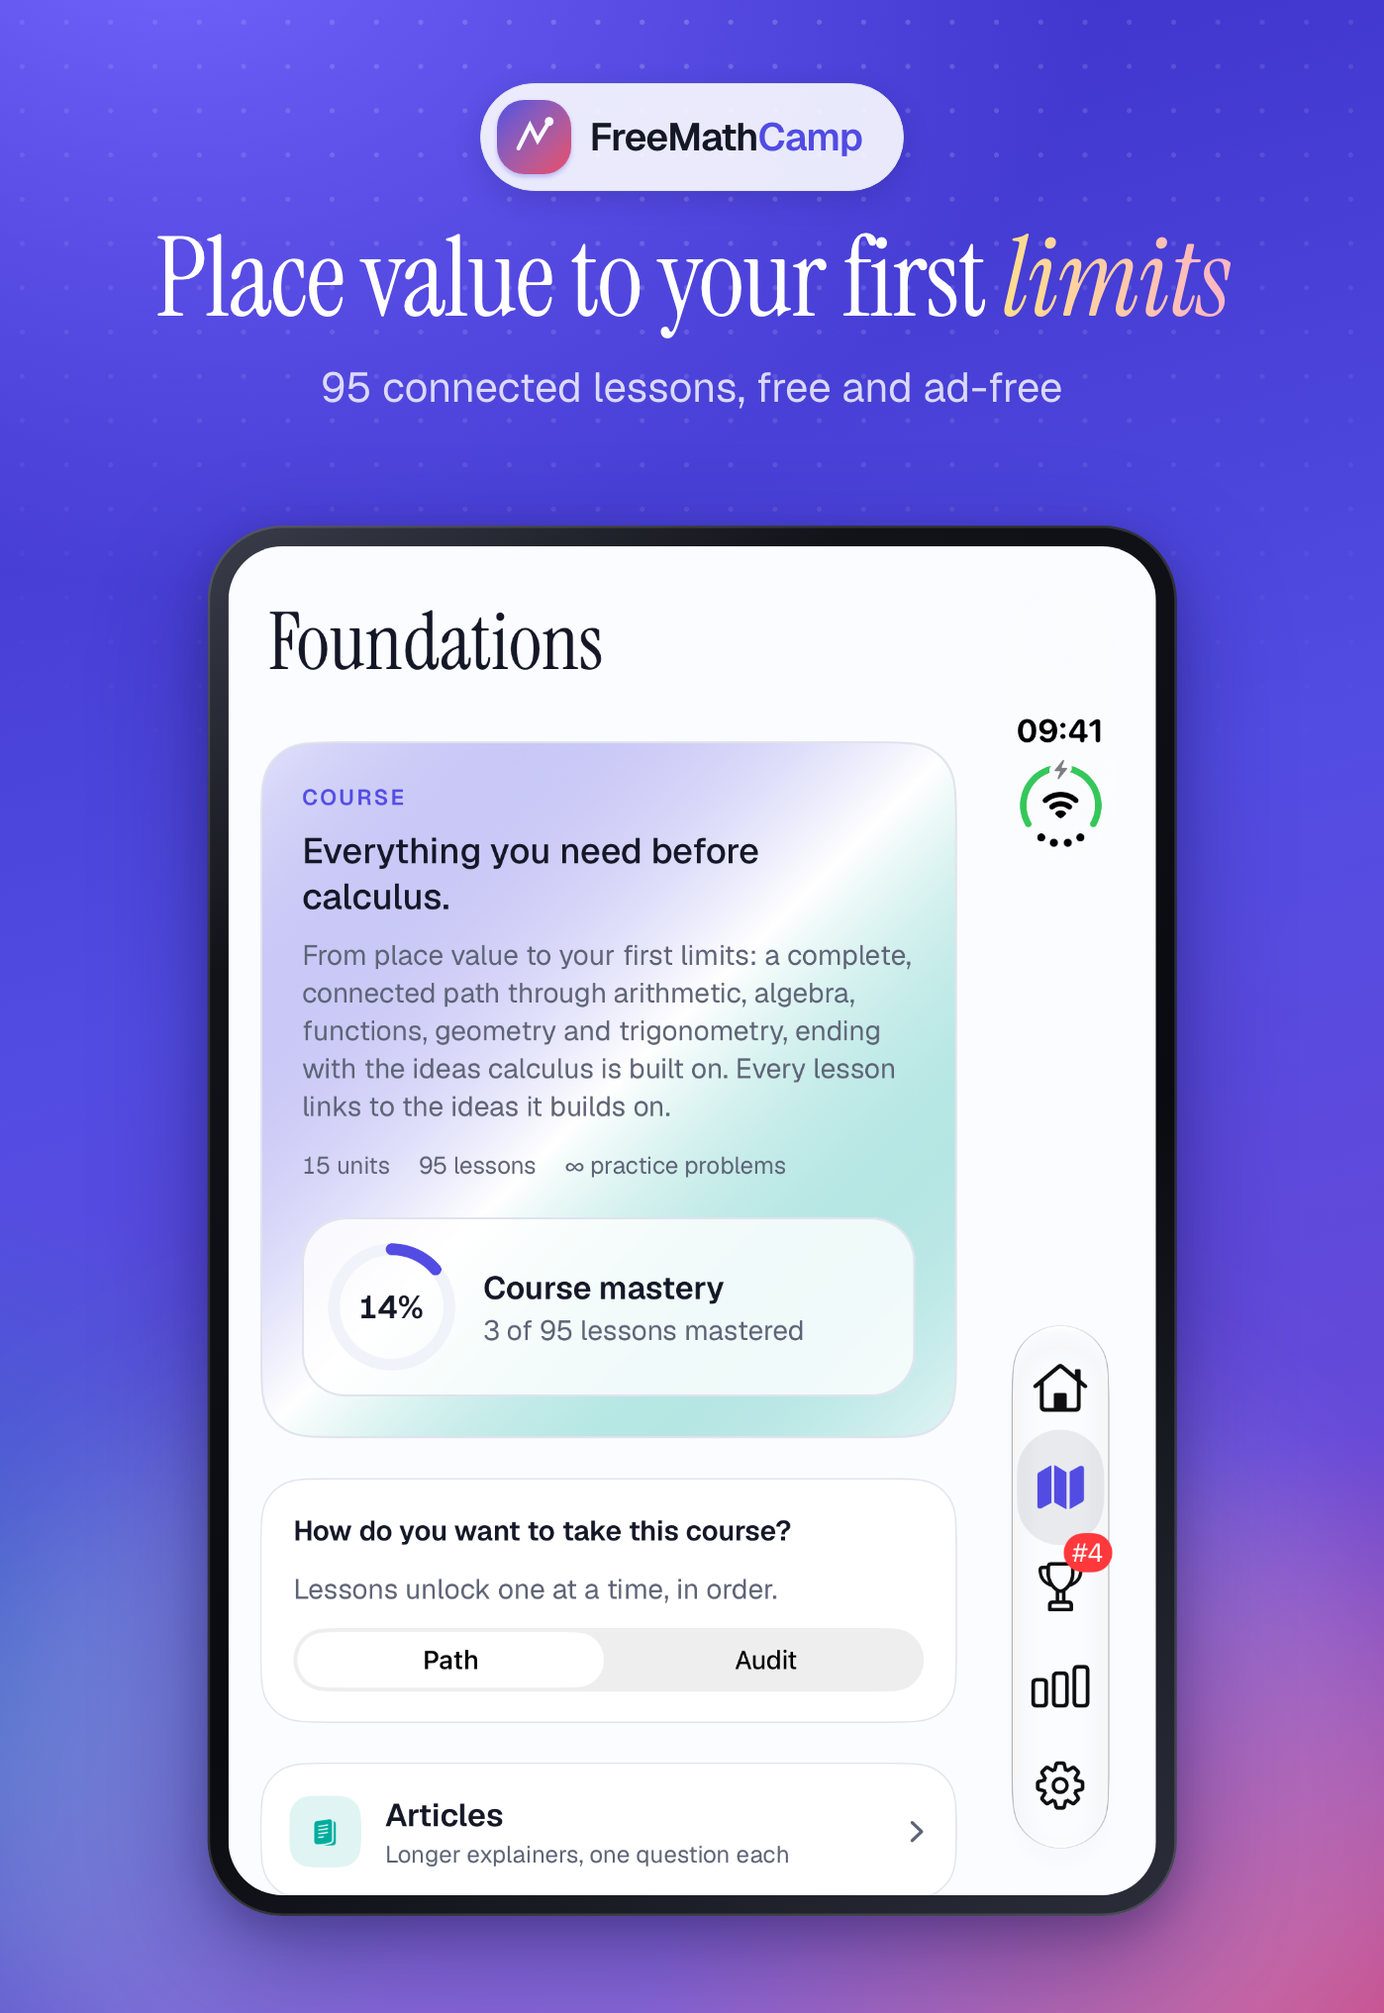
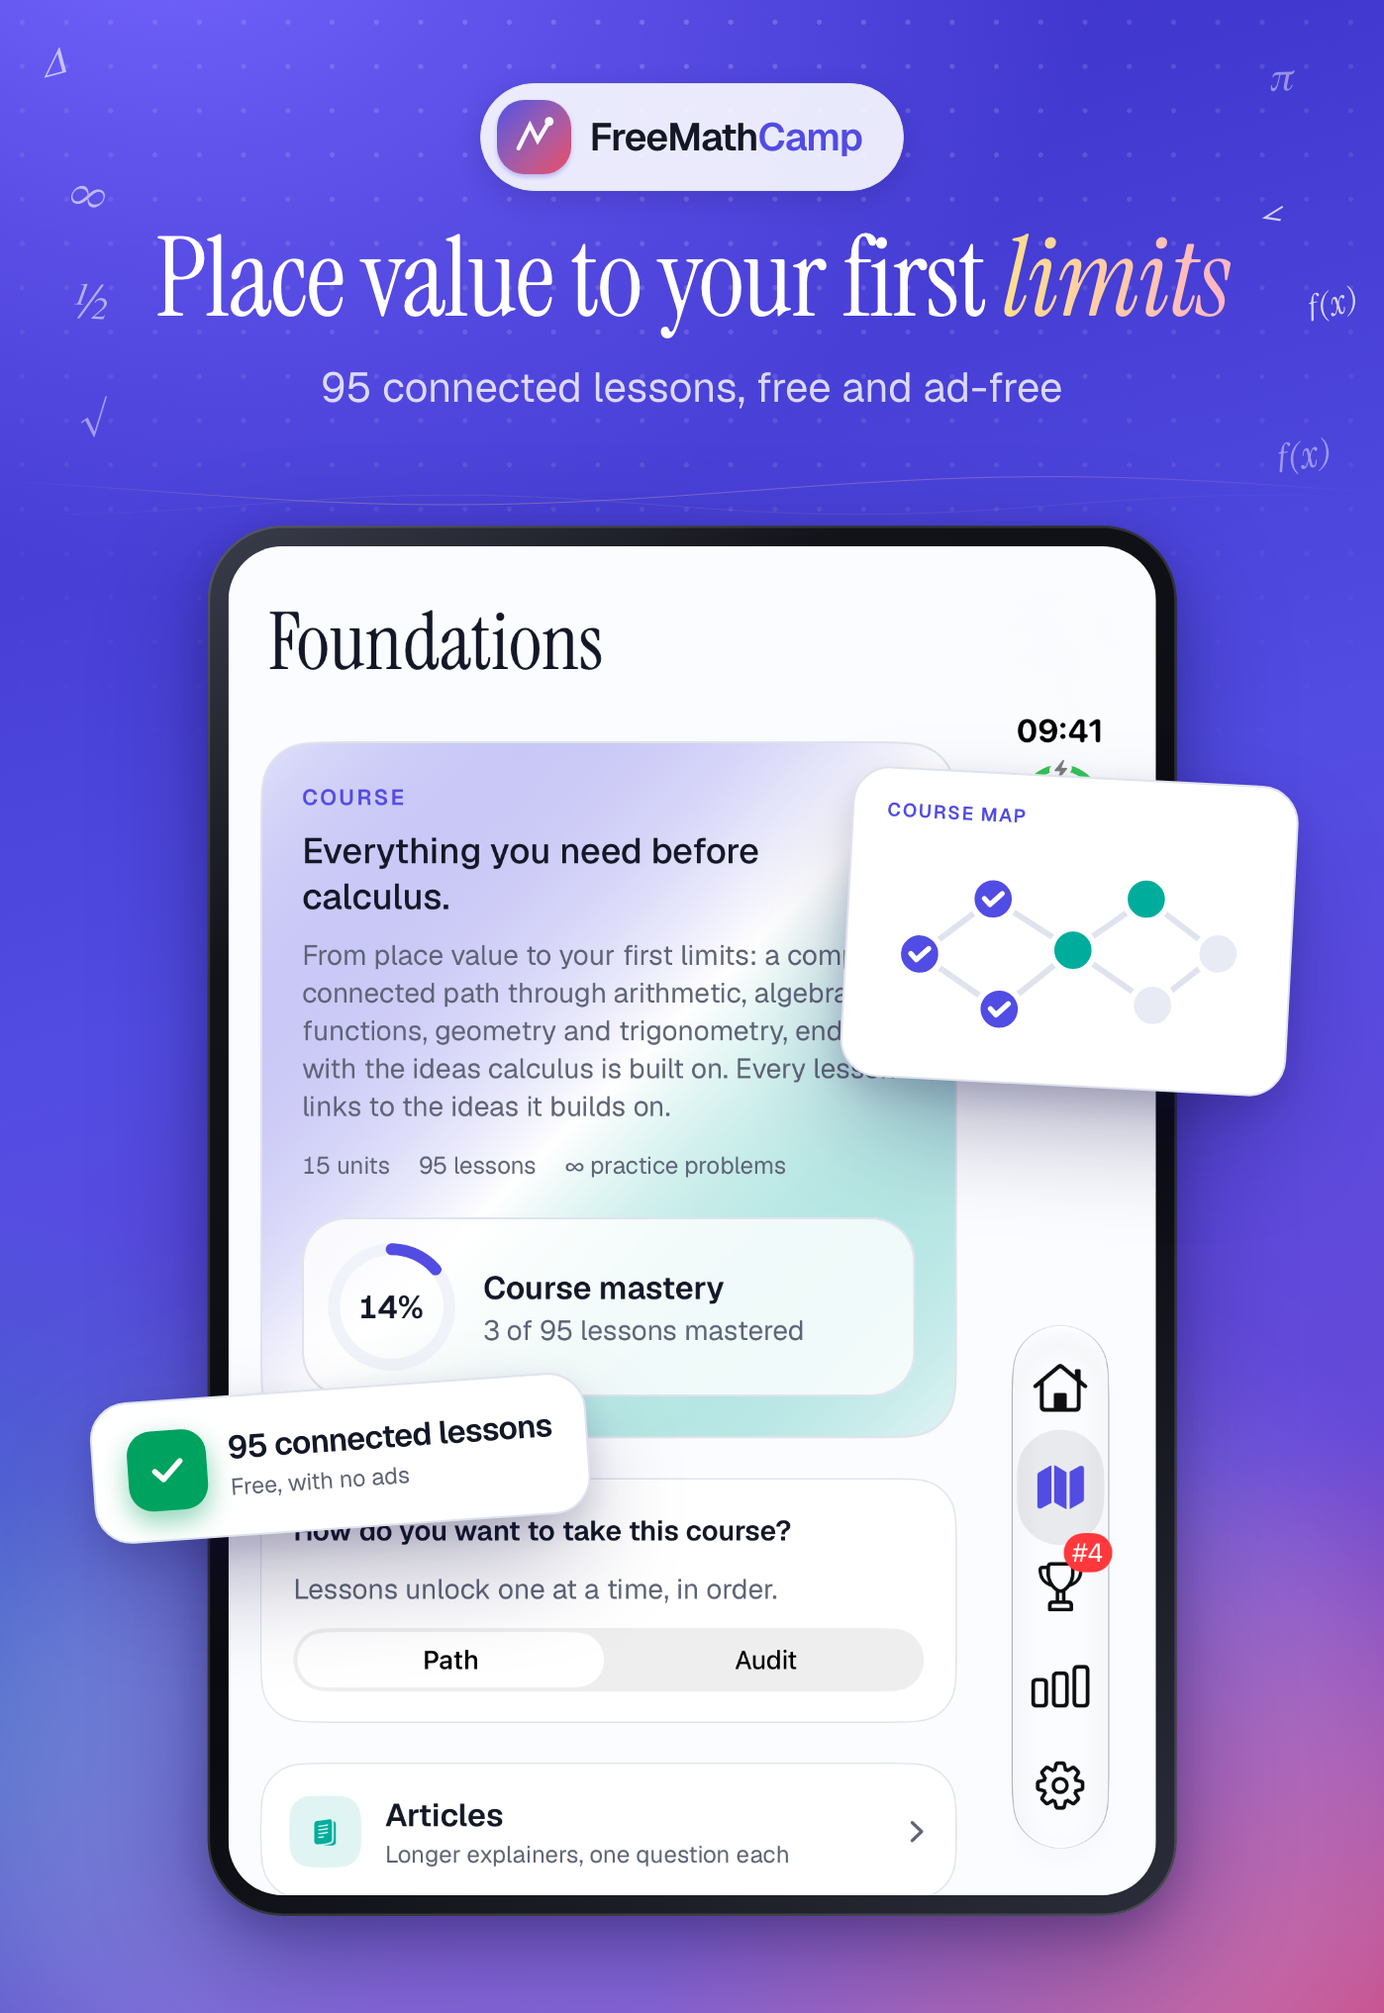
Show each visual's working once; generated art on App Store screenshots
Some visuals print their own working under the drawing (the area model's
partial products, the percent grid's fraction, the exponent blocks'
repeated product), and their captions repeated it. Those captions now keep
only what the visual doesn't already say, and a new captions test fails if
a caption repeats its visual's working again.

The App Store screenshots get generated artwork (store/compose/art.mjs): a
seeded backdrop of maths glyphs and curves behind each headline, and two
floating cards per shot drawn from the app's own visuals (area model,
mastery ring, function plot, fraction circle, course map), in the app's
light and dark tokens. All 18 shots are regenerated.

diff --git a/apps/mobile/store/compose/template.html b/apps/mobile/store/compose/template.html
@@ -92,13 +92,60 @@
   .aurora .halo { background: rgba(82, 76, 227, 0.16); }
   .night .halo { background: rgba(146, 150, 255, 0.14); }
 
-  .phone { --h1max: 80vw; --top: 6.5vw; --chip: 3.4vw; --h1: 11vw; --sub: 3.7vw; --gap: 2.4vw; }
+
+  /* ---- Generated art (art.mjs) ---- */
+  /* The header's backdrop: glyphs around the headline, curves above the device. */
+  .art-head { position: absolute; left: 0; right: 0; top: 0; height: var(--hh); pointer-events: none; }
+  .backdrop { position: absolute; inset: 0; width: 100%; height: 100%; overflow: visible; }
+  .glyph { position: absolute; font-family: "Instrument Serif", serif; font-style: italic; line-height: 1; white-space: nowrap; }
+  .indigo .art-head { --a1: #ffe08a; --a2: #ffb4c6; } .indigo .glyph { color: #fff; }
+  .aurora .art-head { --a1: #524ce3; --a2: #ec4764; } .aurora .glyph { color: #524ce3; }
+  .night .art-head { --a1: #9296ff; --a2: #f9667a; } .night .glyph { color: #b9bcff; }
+  .indigo .glyph { opacity: 0.5; } .backdrop .c1 { opacity: 0.9; } .backdrop .c2 { opacity: 0.5; }
+
+  /* Cards hanging off the device's edges, in the app's light (or, at night, dark) tokens. */
+  .card { position: absolute; z-index: 2; font-size: var(--u); padding: 1.3em 1.5em; border-radius: 1.7em; min-width: 13em;
+    --card: oklch(1 0 0); --fg: oklch(0.21 0.03 272); --mfg: oklch(0.5 0.03 272); --muted: oklch(0.94 0.012 272); --border: oklch(0.915 0.014 272);
+    --primary: oklch(0.52 0.22 277); --chart-1: oklch(0.55 0.22 277); --chart-2: oklch(0.66 0.14 185); --chart-3: oklch(0.76 0.16 70); --chart-4: oklch(0.64 0.2 15); --success: oklch(0.62 0.16 158); --warning: oklch(0.74 0.16 68);
+    background: var(--card); color: var(--fg); border: 0.1em solid var(--border);
+    box-shadow: 0 2.4em 5em -1em rgba(18, 14, 70, 0.38), 0 0.6em 1.4em rgba(18, 14, 70, 0.14);
+    transform: rotate(var(--rot)); }
+  .night .card { --card: oklch(0.205 0.026 276); --fg: oklch(0.96 0.01 272); --mfg: oklch(0.7 0.03 272); --muted: oklch(0.28 0.025 276); --border: oklch(1 0 0 / 12%);
+    --primary: oklch(0.72 0.16 280); --chart-1: oklch(0.72 0.16 280); --chart-2: oklch(0.74 0.13 185); --chart-3: oklch(0.8 0.14 72); --chart-4: oklch(0.7 0.18 15); --success: oklch(0.72 0.15 158); --warning: oklch(0.8 0.14 72);
+    box-shadow: 0 2.4em 5em -1em rgba(0, 0, 0, 0.6), 0 0 4em rgba(146, 150, 255, 0.18); }
+  .card.left { left: var(--hang); } .card.right { right: var(--hang); }
+  .card svg { display: block; }
+  .card .row { display: flex; align-items: center; gap: 1em; }
+  .card .t { font-weight: 600; font-size: 1.45em; letter-spacing: -0.02em; line-height: 1.15; }
+  .card .t.big { font-size: 2.6em; letter-spacing: -0.03em; line-height: 1; }
+  .card .s { margin-top: 0.25em; font-size: 1.05em; color: var(--mfg); }
+  .card .eyebrow { font-size: 0.85em; font-weight: 600; letter-spacing: 0.08em; text-transform: uppercase; color: var(--primary); margin-bottom: 0.7em; }
+  .card .tex { font-family: "Instrument Serif", serif; font-size: 1.75em; line-height: 1.1; white-space: nowrap; }
+  .card .foot { margin-top: 0.4em; text-align: center; color: var(--mfg); }
+  .card .foot .tex { font-size: 1.5em; }
+  .card text { font-family: "Geist", sans-serif; fill: var(--fg); }
+  .card text.n { font-size: 15px; font-weight: 500; } .card text.lbl { font-size: 13px; font-weight: 600; fill: var(--mfg); } .card text.pct { font-size: 15px; font-weight: 600; }
+  .w-area { width: 17em; } .w-ring { width: 5.6em; } .w-plot { width: 15em; } .w-pie { width: 6.2em; } .w-bars { width: 14em; } .w-graph { width: 17em; }
+  .card .g { stroke: var(--border); stroke-width: 1; } .card .ax { stroke: var(--mfg); stroke-opacity: 0.55; stroke-width: 1.4; } .card .edge { stroke: var(--border); stroke-width: 3; }
+  .card .frac .tex { display: inline-flex; flex-direction: column; align-items: center; font-size: 2.6em; line-height: 0.95; }
+  .card .frac .num { border-bottom: 0.05em solid currentColor; padding: 0 0.12em; }
+  .card .badge { display: grid; place-items: center; width: 3.6em; height: 3.6em; border-radius: 1.1em; flex: none; color: #fff; }
+  .card .badge svg { width: 55%; height: 55%; }
+  .card .badge.ok { background: var(--success); box-shadow: 0 0.5em 1.2em color-mix(in oklch, var(--success) 45%, transparent); }
+  .card .badge.star { background: linear-gradient(160deg, var(--primary), var(--chart-4)); box-shadow: 0 0.5em 1.2em color-mix(in oklch, var(--primary) 40%, transparent); }
+  .card .rank { display: flex; align-items: center; gap: 0.8em; padding: 0.5em 0.7em; border-radius: 0.9em; font-size: 1.15em; }
+  .card .rank + .rank { margin-top: 0.2em; }
+  .card .rank.me { background: color-mix(in oklch, var(--primary) 12%, transparent); color: var(--primary); font-weight: 600; }
+  .card .rank .p { width: 1.2em; font-weight: 600; color: var(--mfg); } .card .rank.me .p { color: var(--primary); }
+  .card .rank .nm { flex: 1; } .card .rank .xp { font-variant-numeric: tabular-nums; color: var(--mfg); } .card .rank.me .xp { color: var(--primary); }
+
+  .phone { --hh: 54.5vw; --gs: 1vw; --u: 2vw; --hang: -13%; --h1max: 80vw; --top: 6.5vw; --chip: 3.4vw; --h1: 11vw; --sub: 3.7vw; --gap: 2.4vw; }
   .phone .device { width: 72.5vw; top: 54.5vw; --bezel: 1.7vw; --r: 10.6vw; }
 
-  .tablet { --top: 4.6vw; --chip: 2vw; --h1: 6.4vw; --sub: 2.3vw; --gap: 1.6vw; }
+  .tablet { --hh: 28.5vw; --gs: 0.55vw; --u: 1.15vw; --hang: -9%; --top: 4.6vw; --chip: 2vw; --h1: 6.4vw; --sub: 2.3vw; --gap: 1.6vw; }
   .tablet .device { width: 77vw; top: 28.5vw; --bezel: 1.5vw; --r: 3.6vw; }
 
-  .duo { --top: 6vw; --chip: 2.8vw; --h1: 8vw; --sub: 3vw; --gap: 2.2vw; }
+  .duo { --hh: 38vw; --gs: 0.75vw; --u: 1.6vw; --hang: -12%; --top: 6vw; --chip: 2.8vw; --h1: 8vw; --sub: 3vw; --gap: 2.2vw; }
   .duo .device { width: 70vw; top: 38vw; --bezel: 1.5vw; --r: 5.4vw; }
 
   .tablet .island, .duo .island { display: none; }
@@ -108,6 +155,7 @@
   <div class="bg"></div>
   <div class="dots"></div>
   <div class="halo"></div>
+  <div class="art-head">{{BACKDROP}}</div>
   <header>
     <span class="chip"><span class="mark"><svg viewBox="0 0 24 24" fill="none" stroke="currentColor" stroke-width="2.2" stroke-linecap="round"><path d="M4 18 L10 6 L14 14 L20 4" /><circle cx="20" cy="4" r="2.3" fill="currentColor" stroke="none" /></svg></span><span>FreeMath<span class="camp">Camp</span></span></span>
     <h1>{{TITLE}}</h1>
@@ -116,6 +164,7 @@
   <div class="device">
     <img class="screen" src="{{SCREEN}}" alt="" />
     <div class="island"></div>
+    {{CARDS}}
   </div>
 </body>
 </html>

diff --git a/packages/curriculum/test/captions.test.ts b/packages/curriculum/test/captions.test.ts
@@ -1,0 +1,45 @@
+import { describe, expect, it } from "vitest";
+import { courses, type Block, type Visual } from "../src";
+import { articles } from "../src/articles";
+
+const placeParts = (n: number) =>
+  String(n)
+    .split("")
+    .map((d, i, s) => Number(d) * 10 ** (s.length - 1 - i))
+    .filter(Boolean);
+
+/**
+ * Some visuals print their own working under the drawing (the area model's
+ * partial products, the percent grid's fraction, the blocks' repeated product).
+ * Returns a check that is true when a caption repeats that working.
+ */
+const repeatsWorking = (v: Visual): ((caption: string) => boolean) | undefined => {
+  const nums = (c: string) => new Set(c.match(/\d+(\.\d+)?/g) ?? []);
+  switch (v.type) {
+    case "areaModel": {
+      const products = placeParts(v.a).flatMap((x) => placeParts(v.b).map((y) => String(x * y)));
+      return products.length > 1 ? (c) => products.every((p) => nums(c).has(p)) : (c) => nums(c).has(String(v.a * v.b));
+    }
+    case "percentGrid":
+      return (c) => c.replace(/\s/g, "").includes(`frac{${v.percent}}{100}`);
+    case "exponentBlocks":
+      return (c) => nums(c).has(String(v.base ** v.exponent));
+    case "rightTriangle":
+      return v.showSquares ? (c) => /\^2\s*\+/.test(c) : undefined;
+    default:
+      return undefined;
+  }
+};
+
+const visualBlocks = [
+  ...courses.flatMap((c) => c.units.flatMap((u) => u.exercises.flatMap((e) => e.lesson.map((b) => [`${e.id} lesson`, b] as const)))),
+  ...articles.flatMap((a) => a.body.map((b) => [`article ${a.slug}`, b] as const)),
+].filter((x): x is readonly [string, Extract<Block, { kind: "visual" }>] => x[1].kind === "visual");
+
+describe("visual captions don't repeat the working the visual already shows", () => {
+  for (const [where, block] of visualBlocks) {
+    const repeats = repeatsWorking(block.visual);
+    if (!repeats || !block.caption) continue;
+    it(`${where}: ${block.visual.type}`, () => expect(repeats(block.caption!), block.caption).toBe(false));
+  }
+});

diff --git a/packages/curriculum/src/articles/content/fractions.ts b/packages/curriculum/src/articles/content/fractions.ts
@@ -256,7 +256,7 @@ export const fractions = [
     related: ["percentage-change", "decimals", "what-is-a-fraction"],
     body: [
       text("**Percent** comes from the Latin *per centum*, \"for each hundred\". A percentage is simply a fraction with denominator $100$, written with a $\\%$ sign instead."),
-      visual({ type: "percentGrid", percent: 35 }, "35 out of 100 squares: $35\\% = \\frac{35}{100} = 0.35 = \\frac{7}{20}$."),
+      visual({ type: "percentGrid", percent: 35 }, "35 out of 100 squares, which is also $0.35$, or $\\frac{7}{20}$."),
       text("Because everything is out of a hundred, percentages make comparisons easy. Is $\\frac{17}{20}$ better than $\\frac{41}{50}$? As percentages, $85\\%$ beats $82\\%$ at a glance."),
       heading("Three ways to write a number"),
       rule("Conversions", r`\frac{a}{b} \xrightarrow{\;a \div b\;} \text{decimal} \xrightarrow{\;\times 100\;} \text{percent}`, "Going backwards: divide by $100$ to get a decimal, then write it as a fraction and simplify."),

diff --git a/packages/curriculum/src/courses/foundations/units/decimals.ts b/packages/curriculum/src/courses/foundations/units/decimals.ts
@@ -143,7 +143,7 @@ export const decimals: Unit = {
       keyIdeas: ["Percent means \"per hundred\".", "Decimal → percent: × 100. Fraction → decimal: divide."],
       lesson: [
         text("**Percent** means *per hundred*. So $35\\% = \\frac{35}{100} = 0.35$. Every percent is a fraction with denominator 100."),
-        visual({ type: "percentGrid", percent: 35 }, "35 of 100 squares: $35\\% = 0.35 = \\frac{7}{20}$"),
+        visual({ type: "percentGrid", percent: 35 }, "35 of 100 squares, which is also $0.35$, or $\\frac{7}{20}$."),
         rule("Conversions", r`\frac{a}{b} \xrightarrow{\;a\div b\;} \text{decimal} \xrightarrow{\;\times 100\;} \text{percent}`),
         example("Write $\\frac{3}{8}$ as a percent.", [["Divide.", r`3 \div 8 = 0.375`], ["Multiply by 100.", r`37.5\%`]]),
         tip("Memorise the classics: $\\frac12 = 50\\%$, $\\frac14 = 25\\%$, $\\frac15 = 20\\%$, $\\frac{1}{10} = 10\\%$, $\\frac13 \\approx 33.3\\%$."),

diff --git a/packages/curriculum/src/articles/content/geometry.ts b/packages/curriculum/src/articles/content/geometry.ts
@@ -249,7 +249,7 @@ export const geometry = [
     related: ["area-and-perimeter", "circles-and-pi", "exponents"],
     body: [
       text("Area counts unit squares covering a flat shape. **Volume** counts unit cubes filling a solid. A box $3$ by $3$ by $3$ holds $27$ unit cubes, which is why $3^3$ is called \"three cubed\"."),
-      visual({ type: "exponentBlocks", base: 3, exponent: 3 }, "$3 \\times 3 \\times 3 = 27$ cubic units."),
+      visual({ type: "exponentBlocks", base: 3, exponent: 3 }, "Each block is one cubic unit, so the volume is the number of blocks."),
       heading("Prisms and cylinders"),
       text("A **prism** has the same cross-section all the way through, like a stick of rock. Think of it as a stack of identical thin slices. Each slice has the area of the cross-section, and there is a length's worth of them."),
       key("For any prism or cylinder: **volume = cross-sectional area × length**."),

diff --git a/packages/curriculum/src/articles/content/powers.ts b/packages/curriculum/src/articles/content/powers.ts
@@ -21,7 +21,7 @@ export const powers = [
       text("We read $b^n$ as \"$b$ to the power $n$\" or \"$b$ to the $n$th\"."),
       heading("Squares and cubes"),
       text("Two powers have their own names, and the names come from geometry. A square with side $3$ is made of $3^2 = 9$ unit squares. A cube with side $3$ holds $3^3 = 27$ unit cubes."),
-      visual({ type: "exponentBlocks", base: 3, exponent: 3 }, "$3^1$ is a row, $3^2$ a square, $3^3$ a cube of $27$ blocks."),
+      visual({ type: "exponentBlocks", base: 3, exponent: 3 }, "$3^1$ is a row, $3^2$ a square, $3^3$ a cube."),
       heading("How fast powers grow"),
       text("Each extra power multiplies by the base again, so powers grow astonishingly fast. Doubling $1$ thirty times gives over a billion."),
       visual({ type: "sequenceBars", terms: [2, 4, 8, 16, 32, 64, 128] }, "Powers of two: $2^1$ to $2^7$. Each bar is double the last."),

diff --git a/packages/curriculum/src/articles/content/algebra.ts b/packages/curriculum/src/articles/content/algebra.ts
@@ -74,7 +74,7 @@ export const algebra = [
       rule("Distributive property", r`a(b + c) = ab + ac`),
       heading("See it as area"),
       text("A rectangle $3$ wide and $5 + 2$ long can be measured all at once, $3 \\times 7$, or in two pieces, $3 \\times 5$ plus $3 \\times 2$. The area is the same either way."),
-      visual({ type: "areaModel", a: 23, b: 14 }, "Splitting both sides by place value: $23 \\times 14 = 200 + 30 + 80 + 12 = 322$."),
+      visual({ type: "areaModel", a: 23, b: 14 }, "Split both numbers by place value: each rectangle is one partial product, and together they make the whole."),
       text("This **area model** is the same picture used for long multiplication, and it carries straight over to algebra, where some of the side lengths are letters."),
       heading("Expanding brackets"),
       text("To expand a bracket, multiply the term outside by **every** term inside."),

diff --git a/packages/curriculum/src/courses/foundations/units/polynomials.ts b/packages/curriculum/src/courses/foundations/units/polynomials.ts
@@ -86,7 +86,7 @@ export const polynomials: Unit = {
       keyIdeas: ["Every term in the first bracket multiplies every term in the second.", "$(a + b)^2 = a^2 + 2ab + b^2$"],
       lesson: [
         text("To multiply two brackets, multiply **every** term by **every** term. A grid (area model) makes sure nothing is missed."),
-        visual({ type: "areaModel", a: 13, b: 12 }, "$(10 + 3)(10 + 2) = 100 + 20 + 30 + 6$ — the same idea as $(x + 3)(x + 2) = x^2 + 2x + 3x + 6$."),
+        visual({ type: "areaModel", a: 13, b: 12 }, "Swap the tens for $x$ and it is the same idea: $(x + 3)(x + 2) = x^2 + 2x + 3x + 6$."),
         example("Expand $(x + 3)(x - 5)$.", [["First, Outer, Inner, Last.", r`x^2 - 5x + 3x - 15`], ["Combine.", r`x^2 - 2x - 15`]]),
         rule("Perfect square", r`(a + b)^2 = a^2 + 2ab + b^2`),
         warn("$(x + 3)^2 \\neq x^2 + 9$. Don't forget the middle term $6x$."),

diff --git a/packages/curriculum/src/courses/foundations/units/arithmetic.ts b/packages/curriculum/src/courses/foundations/units/arithmetic.ts
@@ -96,7 +96,7 @@ export const arithmetic: Unit = {
         text("Multiplication is fast repeated addition. $4 \\times 6$ means four groups of six — picture a grid with $4$ rows and $6$ columns."),
         visual({ type: "arrayGrid", rows: 4, cols: 6 }, "$4 \\times 6 = 24$ dots."),
         text("For larger numbers, split each factor by place value and multiply the pieces. This is the **area model** — each rectangle's area is a partial product."),
-        visual({ type: "areaModel", a: 23, b: 14 }, "$23 \\times 14 = 200 + 30 + 80 + 12 = 322$"),
+        visual({ type: "areaModel", a: 23, b: 14 }),
         rule("Commutative & distributive", r`a\times b = b\times a \qquad a(b + c) = ab + ac`),
         example("Compute $36 \\times 7$.", [["Split $36$ into $30 + 6$.", r`36\times7 = 30\times7 + 6\times7`], ["Add the partial products.", r`210 + 42 = 252`]]),
       ],

diff --git a/packages/curriculum/src/courses/foundations/units/exponents.ts b/packages/curriculum/src/courses/foundations/units/exponents.ts
@@ -30,7 +30,7 @@ export const exponents: Unit = {
       keyIdeas: ["$b^n$ multiplies $b$ by itself $n$ times.", "$(-2)^2 = 4$ but $-2^2 = -4$."],
       lesson: [
         text("An **exponent** tells you how many times to multiply the **base** by itself. $2^5 = 2\\times2\\times2\\times2\\times2 = 32$."),
-        visual({ type: "exponentBlocks", base: 3, exponent: 3 }, "$3^1$ is a row, $3^2$ a square, $3^3$ a cube: $27$ unit blocks."),
+        visual({ type: "exponentBlocks", base: 3, exponent: 3 }, "$3^1$ is a row, $3^2$ a square, $3^3$ a cube."),
         math(r`\underbrace{b \times b \times \cdots \times b}_{n \text{ times}} = b^n`),
         warn("Brackets matter: $(-3)^2 = 9$, but $-3^2 = -(3^2) = -9$. The exponent only touches what it's attached to."),
       ],
